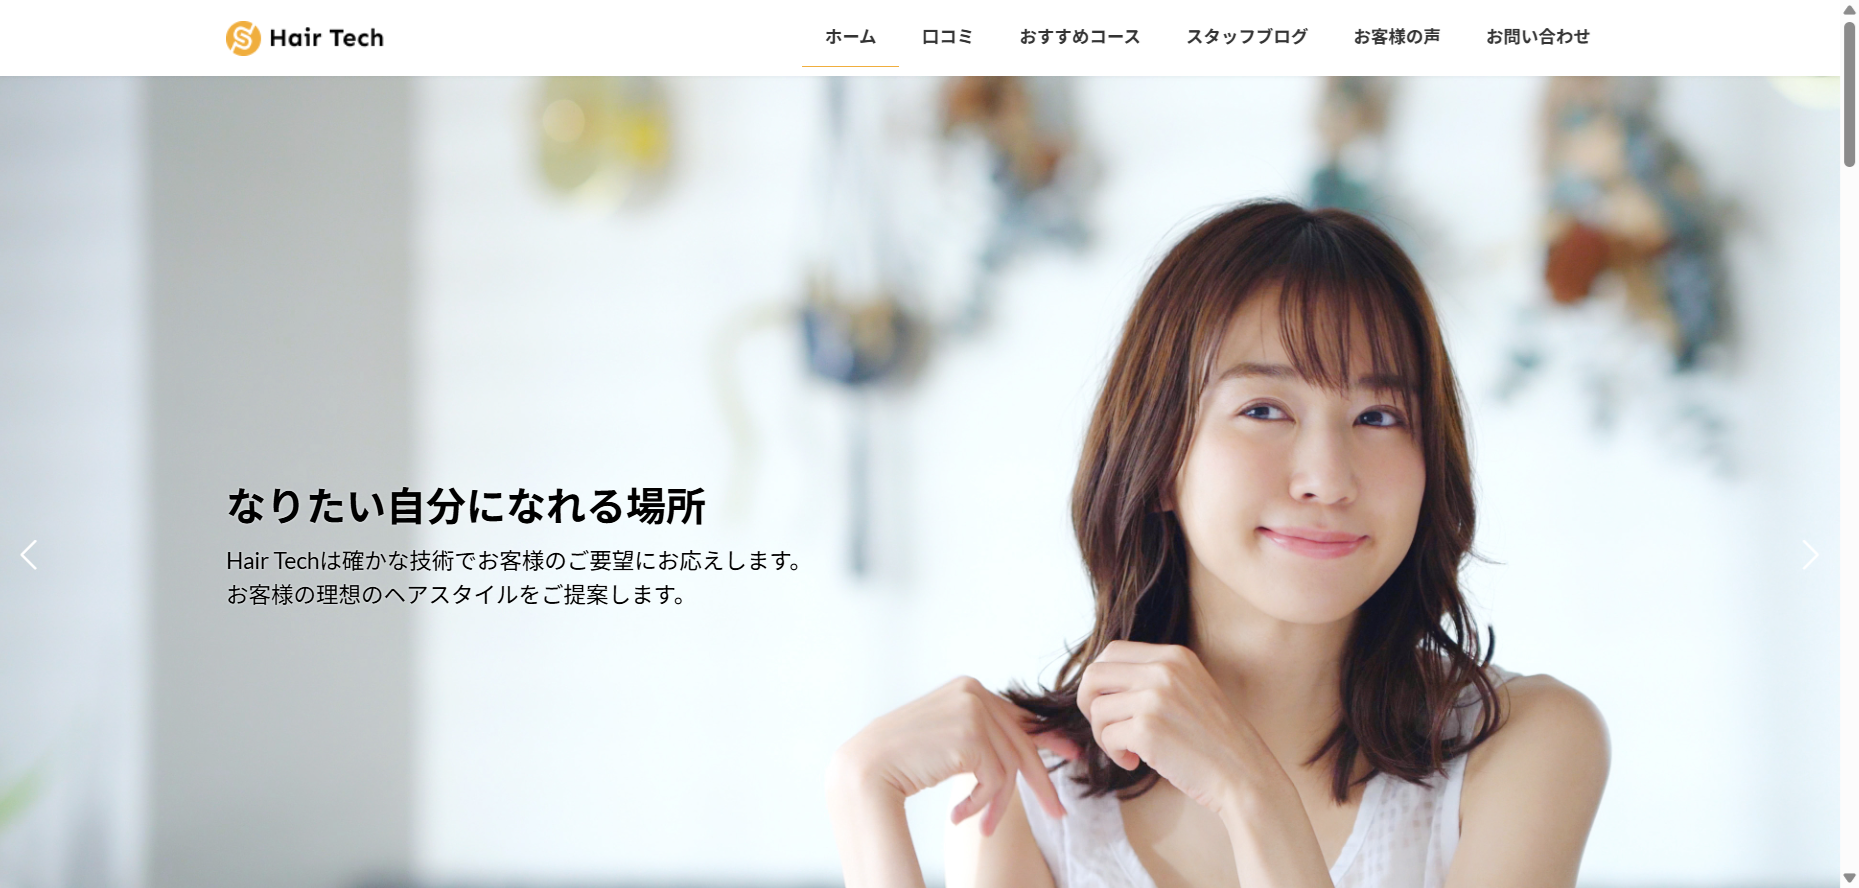
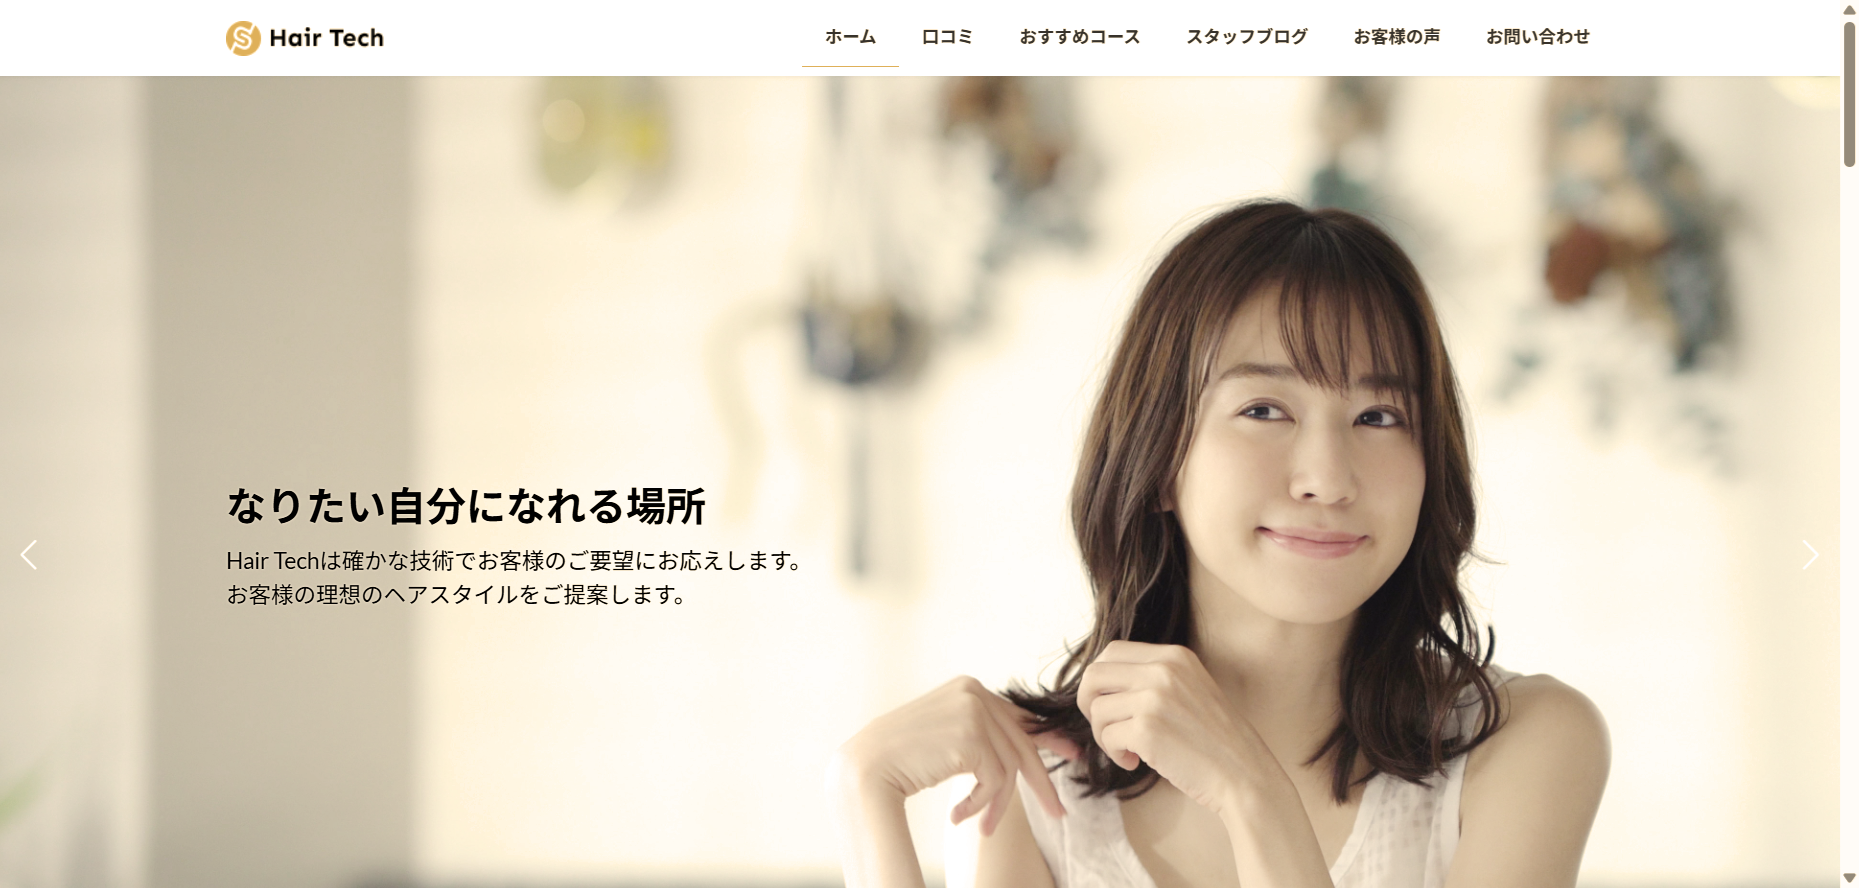
Modify index.php
Delete work4
Set a link to SocialTech

diff --git a/index.php b/index.php
@@ -48,7 +48,7 @@ THE SOFTWARE IS PROVIDED "AS IS", WITHOUT WARRANTY OF ANY KIND, EXPRESS OR IMPLI
       <h1 class="montaga">WORKS</h1>
       <div class="works-container">
         <div class="works-item">
-          <a href="#">
+          <a href="https://shin620.github.io/socialtech">
             <img src="<?php echo get_template_directory_uri(); ?>/img/work-socialtech.png" alt="work-socialtech">
           </a>
           <p>SocialTech(プログラミングスクール課題)</p>
@@ -67,12 +67,6 @@ THE SOFTWARE IS PROVIDED "AS IS", WITHOUT WARRANTY OF ANY KIND, EXPRESS OR IMPLI
           </a>
           <p>Hair Tech(プログラミングスクール課題)</p>
           <p>WordPress</p>
-        </div>
-        <div class="works-item">
-          <a href="#">
-            <img src="https://placehold.jp/500x340.png" alt="work">
-          </a>
-          <p>作品4</p>
         </div>
       </div>
     </article>
